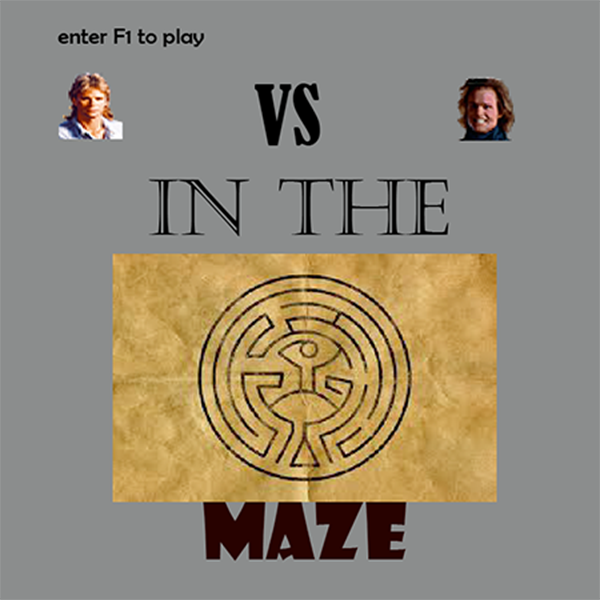
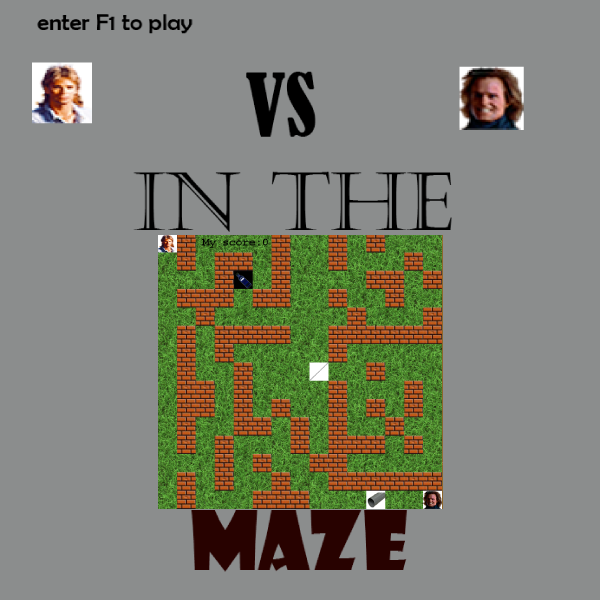
debug item counter improve PEP 8

diff --git a/Main.py b/Main.py
@@ -29,7 +29,9 @@ first_loop = 1
 while first_loop:
     # loading the home screen
     home = pygame.image.load(Constants.HOME_PICTURE).convert()
+    score_background = pygame.image.load(Constants.SCORE_BACKGROUND).convert()
     window.blit(home, (0, 0))
+    window.blit(score_background, (0, Constants.WINDOW_DIM))
 
     # Refresh
     pygame.display.flip()
@@ -61,9 +63,9 @@ while first_loop:
                     go = "Maze_Struct.txt"
 
     if go != 0:
-
         # loading the background
         background = pygame.image.load(Constants.BACKGROUND).convert()
+
         # Loading the maze
         env = Maze.Labyrinth(go)
         env.load_from_file()
@@ -77,6 +79,9 @@ while first_loop:
     while game_loop:
 
         pygame.time.Clock().tick(30)
+        # refresh window
+        window.blit(background, (0, 0))
+        window.blit(score_background, (0, Constants.WINDOW_DIM))
 
         for event in pygame.event.get():
 
@@ -98,8 +103,12 @@ while first_loop:
                 elif event.key == pygame.K_DOWN:
                     mg.move(env, 'down')
 
-            # refresh window
-            window.blit(background, (0, 0))
+            # to print the number of items pick up
+            score_font = pygame.font.SysFont("monospace", 28, bold=True)
+            print_score = score_font.render\
+                ("You have " + str(env.score) + " item(s) in your pocket", 1, (255, 255, 255))
+            window.blit(print_score, (20, 620))
+
             # print the window
             env.print_maze(window)
             # print the hero
@@ -115,13 +124,13 @@ while first_loop:
                     # Refreshments
                     pygame.display.flip()
 
-                    for event in pygame.event.get():
-                        if event.type == pygame.KEYDOWN:
+                    for evt in pygame.event.get():
+                        if evt.type == pygame.KEYDOWN:
                             # If the user press Esc here, we just go back to the menu
-                            if event.key == pygame.K_ESCAPE:
+                            if evt.key == pygame.K_ESCAPE:
                                 win_screen = 0
                                 home_loop = 1
-                            if event.key == pygame.QUIT:
+                            if evt.key == pygame.QUIT:
                                 win_screen = 0
                                 first_loop = 0
                                 home_loop = 0
@@ -136,14 +145,14 @@ while first_loop:
                     # Refreshments
                     pygame.display.flip()
 
-                    for event in pygame.event.get():
-                        if event.type == pygame.KEYDOWN:
+                    for elt in pygame.event.get():
+                        if elt.type == pygame.KEYDOWN:
                             # If the user press Esc here, we just go back to the menu
-                            if event.key == pygame.K_ESCAPE:
+                            if elt.key == pygame.K_ESCAPE:
                                 lose_screen = 0
                                 first_loop = 1
                                 home_loop = 1
-                            if event.key == pygame.QUIT:
+                            if elt.key == pygame.QUIT:
                                 lose_screen = 0
                                 home_loop = 0
                                 first_loop = 0

diff --git a/Maze.py b/Maze.py
@@ -35,22 +35,25 @@ class Labyrinth:
             self.structure = maze_matrice
 
     def random_position(self):
-        return random.randrange(1, Constants.SPRITE_NUM - 1)
+        """Method permit to return a random coordinate"""
+        return random.randrange(0, Constants.SPRITE_NUM)
 
     def is_valid_position(self, x, y):
+        """Method permit to know if a position is a path (True) or a wall (False)"""
         if (self.structure[x][y]) == '0':
             return True
         else:
             return False
 
     def items(self):
+        """Method permit give to items random coordinates"""
         structure_items = ['E', 'T', 'N']
 
         for item in structure_items:
             x = self.random_position()
             y = self.random_position()
 
-            while (self.is_valid_position(x, y) == False):
+            while self.is_valid_position(x, y) == False:
                 x = self.random_position()
                 y = self.random_position()
 
@@ -66,12 +69,6 @@ class Labyrinth:
         ether = pygame.image.load(Constants.ETHER_PICTURE).convert()
         tube = pygame.image.load(Constants.TUBE_PICTURE).convert()
         needle = pygame.image.load(Constants.NEEDLE_PICTURE).convert()
-
-        # to print the number of items pick up
-        if self.score <= 3:
-            score_text = 'you have ' + str(self.score) + ' item(s) in your pocket'
-            score_font = pygame.font.SysFont("monospace", 30)
-            print_score = score_font.render(score_text, 10, (255, 255, 255))
 
         # We go through the level list
         line_number = 0
@@ -94,7 +91,3 @@ class Labyrinth:
                     window.blit(needle, (x, y))
                 sprite_number += 1
             line_number += 1
-
-        window.blit(print_score, (5, 620))
-        pygame.display.flip()
-

diff --git a/Macgiver.py b/Macgiver.py
@@ -1,5 +1,7 @@
+"""This class permit to create and move the hero"""
 import pygame
 import Constants
+
 
 class Hero:
     """Class permit to create the hero"""
@@ -14,18 +16,17 @@ class Hero:
         self.y = 0
         # Environment of the hero
         self.env = env
-        self.score = 0
 
     def move(self, env, direction):
         """Method permit to move the hero"""
 
         # Moving right
         if direction == 'right':
-            # Don't go ouf of the screen
+            # Don't go out of the screen
             if self.sprite_x < (Constants.SPRITE_NUM - 1):
                 # Check if the position is valid
                 if self.env.structure[self.sprite_y][self.sprite_x + 1] != 'X':
-                    # moving one sprite
+                    # moving one sprite right
                     self.sprite_x += 1
                     # Calculate position in pixels
                     self.x = self.sprite_x * Constants.SPRITE_SIZE
@@ -59,5 +60,5 @@ class Hero:
         # permit to take items and count them
         take_item = self.env.structure[self.sprite_y][self.sprite_x]
         if take_item == 'E' or take_item == 'T' or take_item == 'N':
-            env.score += 1
+            env.score = env.score + 1
             self.env.structure[self.sprite_y][self.sprite_x] = '0'

diff --git a/Constants.py b/Constants.py
@@ -6,6 +6,7 @@ WINDOW_DIM = SPRITE_SIZE * SPRITE_NUM  # Dimension in pixels of the Maze.
 
 # Picture of the maze Background
 BACKGROUND = "pictures/background.png"
+SCORE_BACKGROUND = "pictures/scoreback.jpg"
 
 # Home window
 HOME_PICTURE = "pictures/Home.PNG"
@@ -13,8 +14,8 @@ WIN_PICTURE = "pictures/YouWin.png"
 LOSE_PICTURE = "pictures/GameOver.png"
 
 # Loading the pictures representing the Maze.
-WALL_PICTURE = "pictures/wall.png" # Wall tiles.
-GUARDIAN_PICTURE = "pictures/Gardien.png" # Guardian = freedom place.
+WALL_PICTURE = "pictures/wall.png"  # Wall tiles.
+GUARDIAN_PICTURE = "pictures/Gardien.png"  # Guardian = freedom place.
 
 # Loading the pictures of MacGyver and the 3 items
 MACGIVER_PICTURE = "pictures/MacGyver.png"
